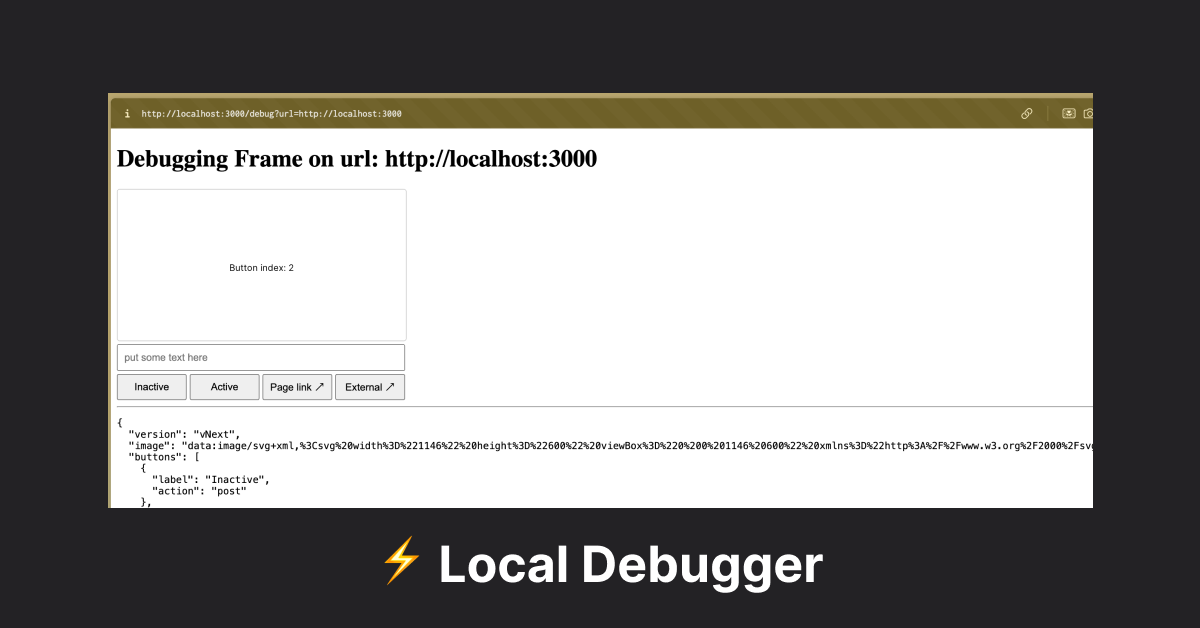
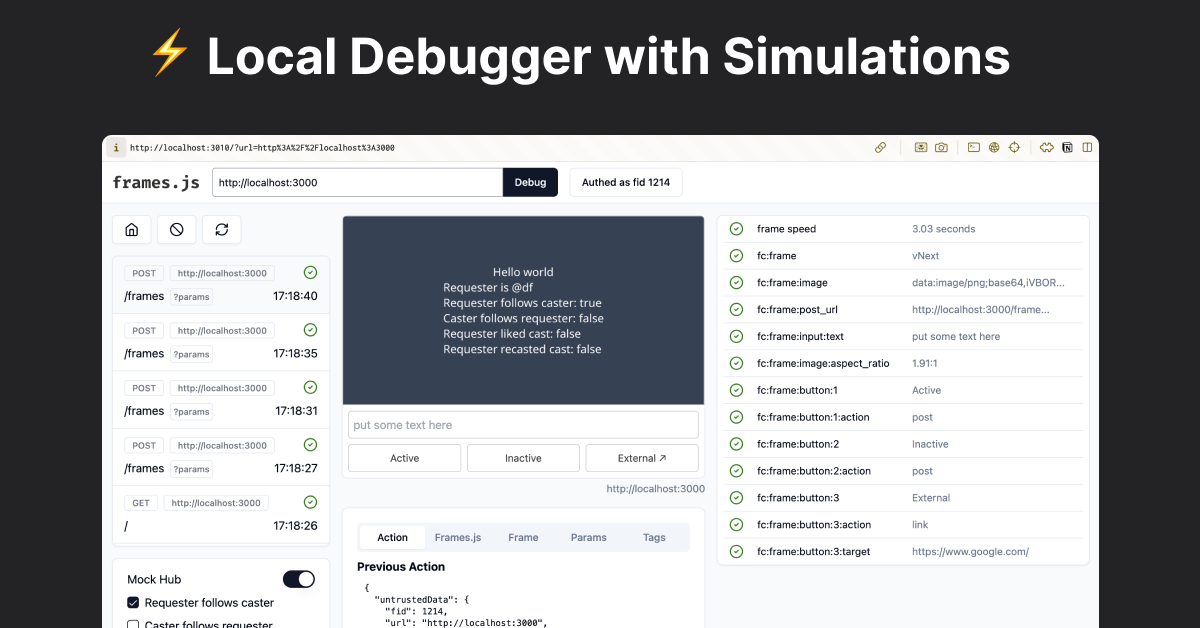
fix: update homeframe

diff --git a/packages/debugger/app/components/frame-debugger.tsx b/packages/debugger/app/components/frame-debugger.tsx
@@ -10,6 +10,8 @@ import {
   HomeIcon,
   ListIcon,
   LoaderIcon,
+  MessageCircle,
+  MessageCircleHeart,
   RefreshCwIcon,
   XCircle,
 } from "lucide-react";
@@ -362,6 +364,16 @@ export function FrameDebugger({
           <a
             target="_blank"
             className="px-2 py-3 border-t block"
+            href="https://warpcast.com/~/compose?text=I%20have%20a%20question%20about%20%40frames!%20cc%20%40df%20%40stephancill."
+          >
+            <span className="text-slate-400 px-2 w-9 relative text-center inline-block bottom-[1px]">
+              <MessageCircleHeart className="inline" size={16} />
+            </span>
+            Ask for help
+          </a>
+          <a
+            target="_blank"
+            className="px-2 py-3 border-t block"
             href="https://warpcast.com/~/developers/embeds"
           >
             <span className="text-slate-400 px-2 w-9 relative text-center inline-block bottom-[1px]">
@@ -402,13 +414,62 @@ export function FrameDebugger({
         {frameState.framesStack.length !== 0 ? (
           <Card>
             <CardContent className="px-5 py-5 w-full overflow-x-auto">
-              <Tabs defaultValue="state" className="w-full">
-                <TabsList className="grid w-full grid-cols-3">
-                  <TabsTrigger value="state">Frame</TabsTrigger>
-                  <TabsTrigger value="query">Query params</TabsTrigger>
-                  <TabsTrigger value="meta">Meta tags</TabsTrigger>
+              <Tabs defaultValue="action" className="w-full">
+                <TabsList className="grid w-full grid-cols-5">
+                  <TabsTrigger value="action">Action</TabsTrigger>
+                  <TabsTrigger value="state">Frames.js</TabsTrigger>
+                  <TabsTrigger value="frame">Frame</TabsTrigger>
+                  <TabsTrigger value="query">Params</TabsTrigger>
+                  <TabsTrigger value="meta">Tags</TabsTrigger>
                 </TabsList>
+                <TabsContent value="action">
+                  <b className="block">Previous Action</b>
+                  <pre
+                    id="json"
+                    className="font-mono text-xs"
+                    style={{
+                      padding: "10px",
+                      borderRadius: "4px",
+                    }}
+                  >
+                    {frameState.framesStack[0]?.method === "GET"
+                      ? "none"
+                      : JSON.stringify(
+                          frameState.framesStack[0]?.request.body,
+                          null,
+                          2
+                        )}
+                  </pre>
+                </TabsContent>
+                <TabsContent value="state">
+                  <b className="block">Previous Frames.js Reducer State</b>
+                  <pre
+                    id="json"
+                    className="font-mono text-xs"
+                    style={{
+                      padding: "10px",
+                      borderRadius: "4px",
+                    }}
+                  >
+                    {frameState.framesStack[0]?.method === "GET"
+                      ? "none"
+                      : JSON.stringify(
+                          (
+                            paramsToObject(
+                              new URL(
+                                frameState.framesStack[0]!.url
+                              ).searchParams.entries()
+                            ) as any
+                          ).s,
+                          null,
+                          2
+                        )}
+                  </pre>
+                </TabsContent>
                 <TabsContent value="query">
+                  <span className="font-bold">
+                    URL query params (may be generated by frames.js)
+                  </span>
                   {Array.from(
                     new URL(
                       frameState.framesStack[0]!.url
@@ -440,7 +501,7 @@ export function FrameDebugger({
                   {frameState.framesStack[0] &&
                   "frame" in frameState.framesStack[0] ? (
                     <div className="py-4 flex-1">
-                      <span className="font-bold mr-2">html tags</span>
+                      <span className="font-bold">html tags</span>
                       <button
                         className="underline"
                         onClick={() => {
@@ -478,7 +539,7 @@ export function FrameDebugger({
                     </div>
                   ) : null}
                 </TabsContent>
-                <TabsContent value="state">
+                <TabsContent value="frame">
                   <pre id="json" className="font-mono text-xs p-2">
                     {JSON.stringify(
                       "frame" in frameState.framesStack[0]!

diff --git a/docs/vocs.config.tsx b/docs/vocs.config.tsx
@@ -178,25 +178,37 @@ export default defineConfig({
   logoUrl: { light: "/full-logo.png", dark: "/full-logo.png" },
   iconUrl: "/favicons/favicon.svg",
   rootDir: ".",
-  head: (
-    <>
-      {/** on production this is rewritten by vercel */}
-      <meta property="og:type" content="website" />
-      <meta name="fc:frame" content="vNext" />
-      <meta
-        name="fc:frame:post_url"
-        content="https://framesjs-homeframe.vercel.app/frames?p=&amp;s=%7B%22page%22%3A1%7D&amp;r=%7B%7D"
-      />
-      <meta name="fc:frame:image" content="https://framesjs.org/og.png" />
-      <meta property="og:image" content="https://framesjs.org/og.png" />
-      <meta name="fc:frame:button:1" content="Open docs" />
-      <meta name="fc:frame:button:1:target" content="https://framesjs.org" />
-      <meta name="fc:frame:button:1:action" content="link" />
-      <meta name="fc:frame:button:2" content="→" />
-      <meta name="fc:frame:button:2:action" content="post" />
-      <script defer src="/_vercel/insights/script.js" />
-    </>
-  ),
+  head({ path }) {
+    if (path === "/")
+      return (
+        <>
+          {/** on production this is rewritten by vercel */}
+          <meta property="og:type" content="website" />
+          <meta name="fc:frame" content="vNext" />
+          <meta
+            name="fc:frame:post_url"
+            content="https://framesjs-homeframe.vercel.app/frames?p=&amp;s=%7B%22page%22%3A1%7D&amp;r=%7B%7D"
+          />
+          <meta name="fc:frame:image" content="https://framesjs.org/og.png" />
+          <meta property="og:image" content="https://framesjs.org/og.png" />
+          <meta name="fc:frame:button:1" content="Open docs" />
+          <meta
+            name="fc:frame:button:1:target"
+            content="https://framesjs.org"
+          />
+          <meta name="fc:frame:button:1:action" content="link" />
+          <meta name="fc:frame:button:2" content="→" />
+          <meta name="fc:frame:button:2:action" content="post" />
+          <script defer src="/_vercel/insights/script.js" />
+        </>
+      );
+    else
+      return (
+        <>
+          <script defer src="/_vercel/insights/script.js" />
+        </>
+      );
+  },
   sidebar: sidebar,
   topNav: [
     { text: "Github", link: "https://github.com/framesjs/frames.js" },

diff --git a/packages/frames.js/src/render/use-frame.tsx b/packages/frames.js/src/render/use-frame.tsx
@@ -10,6 +10,7 @@ import {
   FramesStack,
   FrameStackPending,
   FrameRequest,
+  UseFrameReturn,
 } from "./types";
 import type { Frame, FrameButton } from "../types";
 import { getFrame } from "../getFrame";
@@ -73,28 +74,7 @@ export function useFrame<
   /** Ex: /frames */
   frameGetProxy,
   extraButtonRequestPayload,
-}: {
-  /** skip frame signing, for frames that don't verify signatures */
-  dangerousSkipSigning?: boolean;
-  /** the route used to POST frame actions. The post_url will be added as a the `url` query parameter */
-  frameActionProxy: string;
-  /** the route used to GET the initial frame via proxy */
-  frameGetProxy: string;
-  /** an signer state object used to determine what actions are possible */
-  signerState: SignerStateInstance<T, B>;
-  /** the url of the homeframe, if null won't load a frame */
-  homeframeUrl: string | null;
-  /** the initial frame. if not specified will fetch it from the url prop */
-  frame?: Frame;
-  /** a function to handle mint buttons */
-  onMint?: (t: onMintArgs) => void;
-  /** the context of this frame, used for generating Frame Action payloads */
-  frameContext: FrameContext;
-  /**
-   * Extra data appended to the frame action payload
-   */
-  extraButtonRequestPayload?: Record<string, unknown>;
-}): FrameState {
+}: UseFrameReturn<T, B>): FrameState {
   const [inputText, setInputText] = useState("");
   const initialFrame = frame ? { frame: frame, errors: null } : undefined;
 

diff --git a/packages/frames.js/src/render/types.ts b/packages/frames.js/src/render/types.ts
@@ -1,6 +1,32 @@
 import type { Frame, FrameButton } from "..";
 import { FarcasterFrameContext } from "./farcaster";
 
+export type UseFrameReturn<
+  T = object,
+  B extends FrameActionBodyPayload = FrameActionBodyPayload,
+> = {
+  /** skip frame signing, for frames that don't verify signatures */
+  dangerousSkipSigning?: boolean;
+  /** the route used to POST frame actions. The post_url will be added as a the `url` query parameter */
+  frameActionProxy: string;
+  /** the route used to GET the initial frame via proxy */
+  frameGetProxy: string;
+  /** an signer state object used to determine what actions are possible */
+  signerState: SignerStateInstance<T, B>;
+  /** the url of the homeframe, if null won't load a frame */
+  homeframeUrl: string | null;
+  /** the initial frame. if not specified will fetch it from the url prop */
+  frame?: Frame;
+  /** a function to handle mint buttons */
+  onMint?: (t: onMintArgs) => void;
+  /** the context of this frame, used for generating Frame Action payloads */
+  frameContext: FrameContext;
+  /**
+   * Extra data appended to the frame action payload
+   */
+  extraButtonRequestPayload?: Record<string, unknown>;
+};
+
 export interface SignerStateInstance<
   T = object,
   B extends FrameActionBodyPayload = FrameActionBodyPayload,

diff --git a/packages/debugger/app/utils/mock-hub-utils.ts b/packages/debugger/app/utils/mock-hub-utils.ts
@@ -117,16 +117,16 @@ export async function persistMockResponsesForDebugHubRequests(req: Request) {
     enabled: mockData.enabled,
     requests: {
       [requesterFollowsCaster]: {
-        ok: mockData.requesterFollowsCaster,
+        ok: mockData.enabled && mockData.requesterFollowsCaster,
       },
       [casterFollowsRequester]: {
-        ok: mockData.casterFollowsRequester,
+        ok: mockData.enabled && mockData.casterFollowsRequester,
       },
       [likedCast]: {
-        ok: mockData.likedCast,
+        ok: mockData.enabled && mockData.likedCast,
       },
       [recastedCast]: {
-        ok: mockData.recastedCast,
+        ok: mockData.enabled && mockData.recastedCast,
       },
     },
   };
